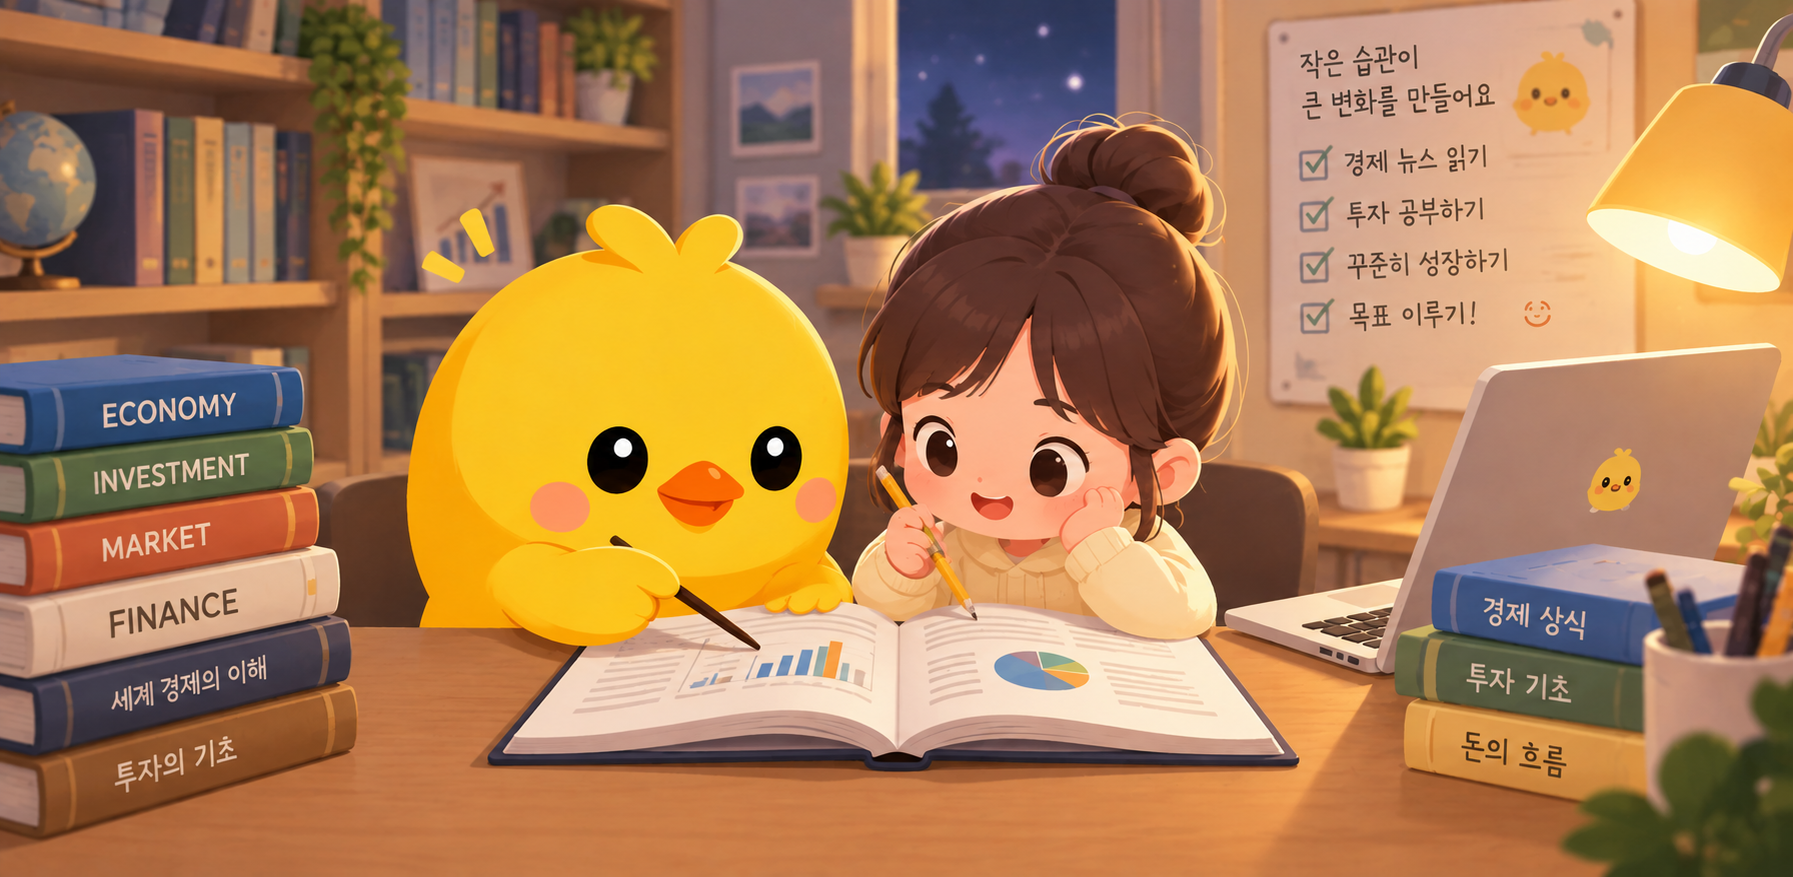
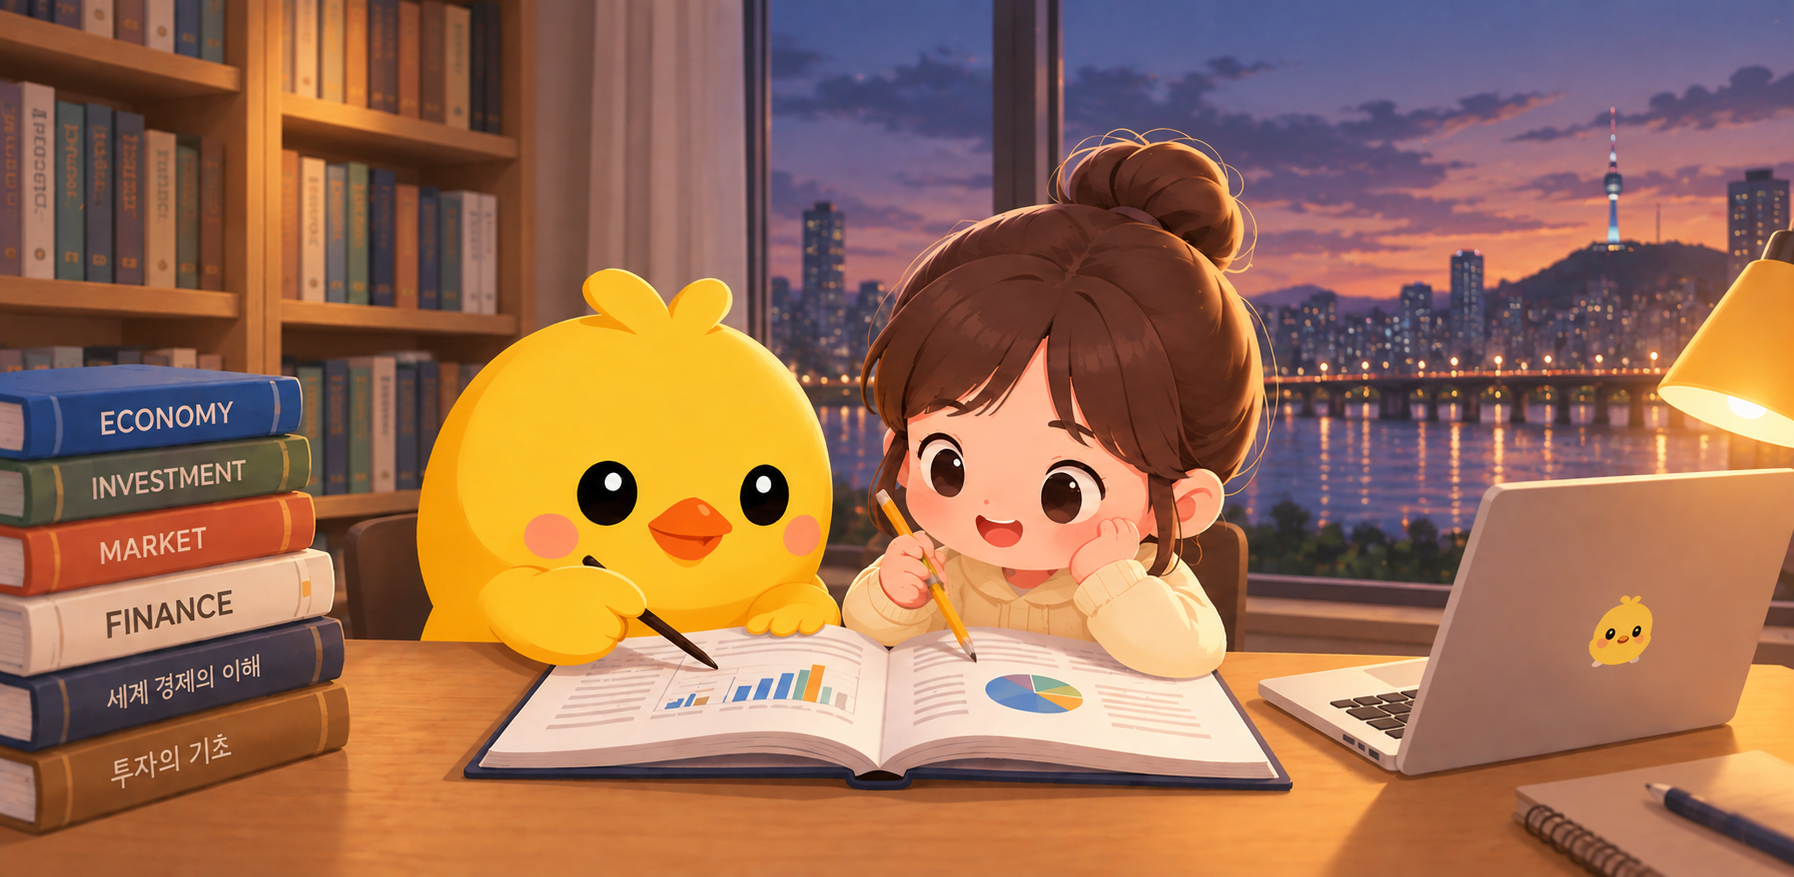
Use study artwork in daily questions

diff --git a/frontend/src/components/DailyBriefing.jsx b/frontend/src/components/DailyBriefing.jsx
@@ -1,4 +1,12 @@
+import { useMemo } from 'react'
 import s from './DailyBriefing.module.css'
+
+const QUESTION_IMAGES = [
+  '/images/question-toth-1.png',
+  '/images/question-toth-2.png',
+  '/images/question-toth-3.png',
+  '/images/question-toth-4.png',
+]
 
 const dateLabel = (value) => new Intl.DateTimeFormat('ko-KR', {
   timeZone: 'Asia/Seoul', month: 'long', day: 'numeric',
@@ -9,10 +17,25 @@ function Explanation({ text }) {
   return <div className={s.explanation}>{paragraphs.map((paragraph, index) => <p key={index}>{paragraph}</p>)}</div>
 }
 
+function shuffledQuestionImages(questionCount) {
+  const shuffled = [...QUESTION_IMAGES]
+  for (let index = shuffled.length - 1; index > 0; index -= 1) {
+    const randomIndex = Math.floor(Math.random() * (index + 1))
+    const currentImage = shuffled[index]
+    shuffled[index] = shuffled[randomIndex]
+    shuffled[randomIndex] = currentImage
+  }
+  return Array.from({ length: questionCount }, (_, index) => shuffled[index % shuffled.length])
+}
+
 export default function DailyBriefing({ briefing, onPrevious, onNext, onSelectFlow, onReturnToList, selectedFlowIndex, navigationLoading, previousAvailable, nextAvailable, previousError }) {
   const flows = briefing.flows || []
   const selectedFlow = selectedFlowIndex === null ? null : flows[selectedFlowIndex]
   const questions = selectedFlow?.questions || []
+  const questionImages = useMemo(
+    () => shuffledQuestionImages(questions.length),
+    [selectedFlow?.id, questions.length],
+  )
   const heading = (
     <header className={s.header}>
       <p><img src="/images/news-icon.png" alt="" /> 데일리</p>
@@ -49,7 +72,7 @@ export default function DailyBriefing({ briefing, onPrevious, onNext, onSelectFl
             <div className={s.questionList}>
               {questions.map((item, questionIndex) => <article className={s.questionCard} key={item.id || questionIndex}>
                 <div className={s.questionHeading}>
-                  <span className={s.questionNumber}>Q{questionIndex + 1}</span>
+                  <img src={questionImages[questionIndex]} alt="" aria-hidden="true" className={s.questionImage} />
                   <h3>{item.question}</h3>
                 </div>
                 <div className={s.answer}>

diff --git a/frontend/src/components/DailyBriefing.module.css b/frontend/src/components/DailyBriefing.module.css
@@ -30,7 +30,7 @@
 .questionList { display: grid; gap: 14px; }
 .questionCard { padding: clamp(18px, 3vw, 24px); border: 1px solid #cbe5d9; border-radius: 14px; background: #e9f6ef; box-shadow: 0 2px 8px rgba(47, 96, 72, .06); }
 .questionHeading { display: flex; align-items: flex-start; gap: 12px; padding-bottom: 14px; border-bottom: 1px solid #cbe5d9; }
-.questionNumber { flex: 0 0 auto; min-width: 35px; padding: 4px 7px; border-radius: 7px; background: #287b55; color: #fff; font-size: .78rem; font-weight: 850; line-height: 1.35; text-align: center; }
+.questionImage { flex: 0 0 auto; width: 44px; height: 44px; border: 2px solid rgba(40, 123, 85, .18); border-radius: 12px; background: #fff; object-fit: cover; object-position: center; }
 .questionHeading h3 { margin: 0; color: #24523b; font-size: clamp(1.04rem, 2.5vw, 1.18rem); line-height: 1.55; }
 .answer { margin-top: 14px; }
 .answer .explanation { font-size: 1.02rem; }
@@ -55,6 +55,7 @@
   .questions { margin: 20px 0; }
   .questionCard { padding: 18px 16px; }
   .questionHeading { gap: 10px; }
+  .questionImage { width: 40px; height: 40px; border-radius: 10px; }
   .referenceCard { margin: 20px 0; padding: 18px; border-radius: 14px; }
 }
 
